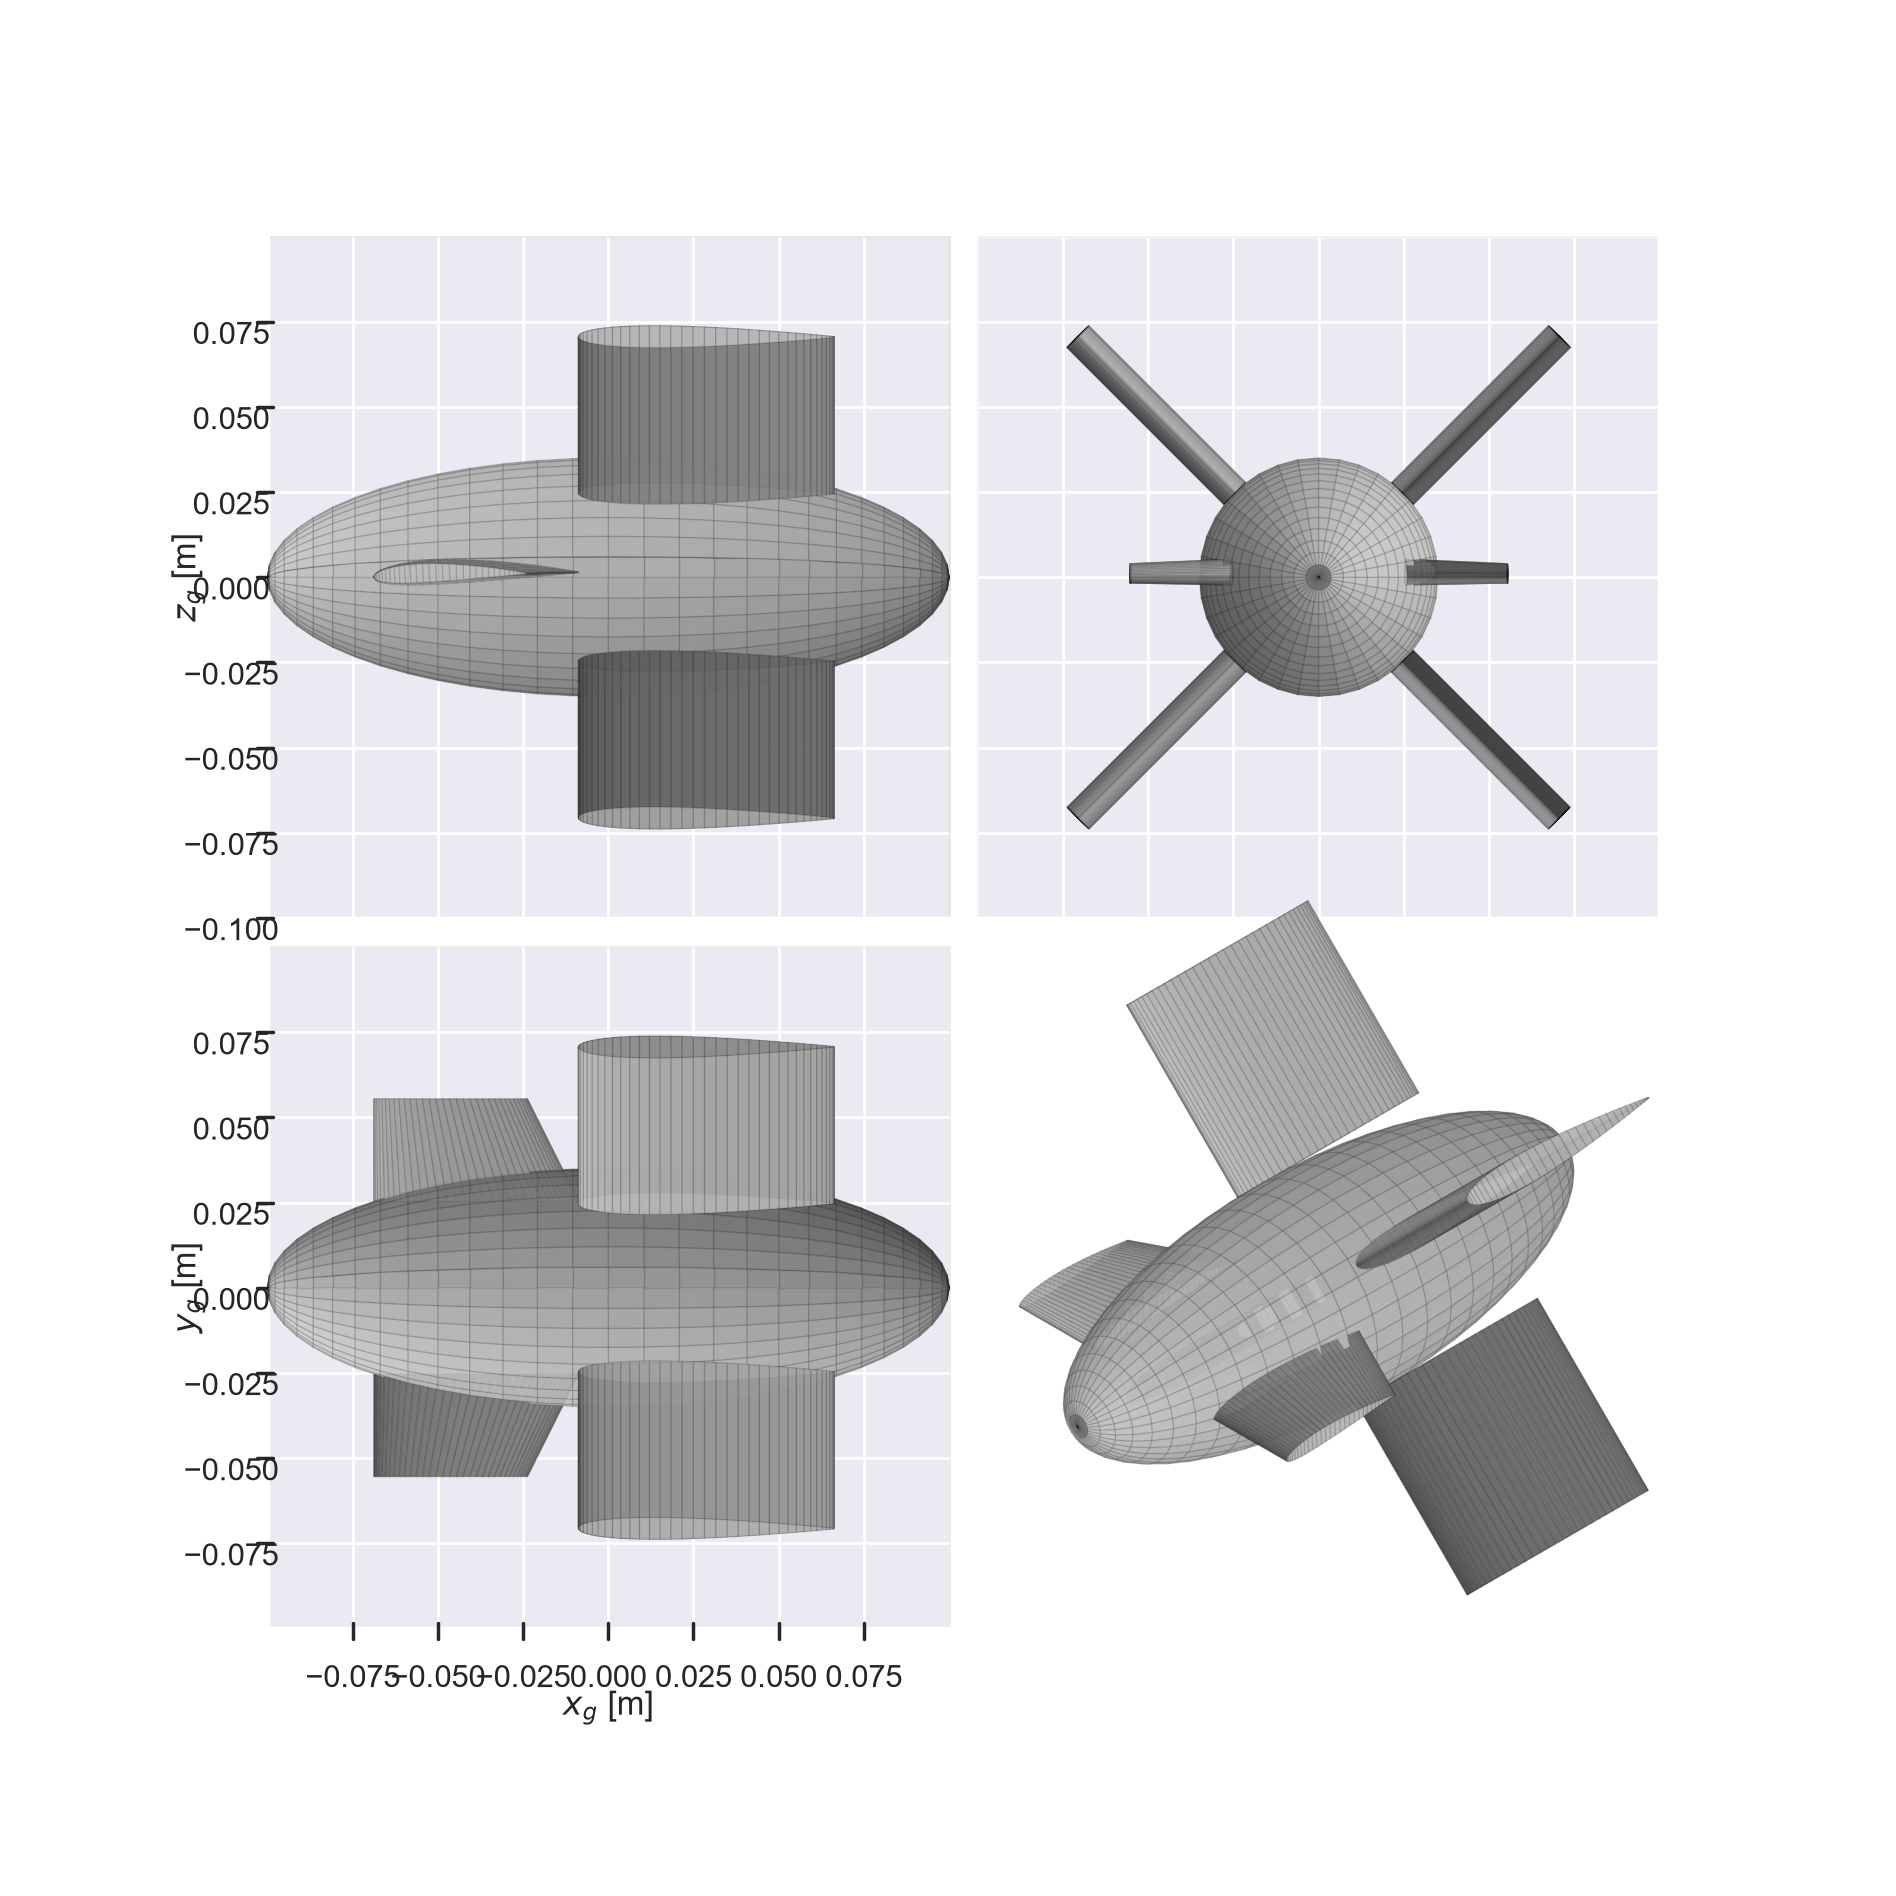
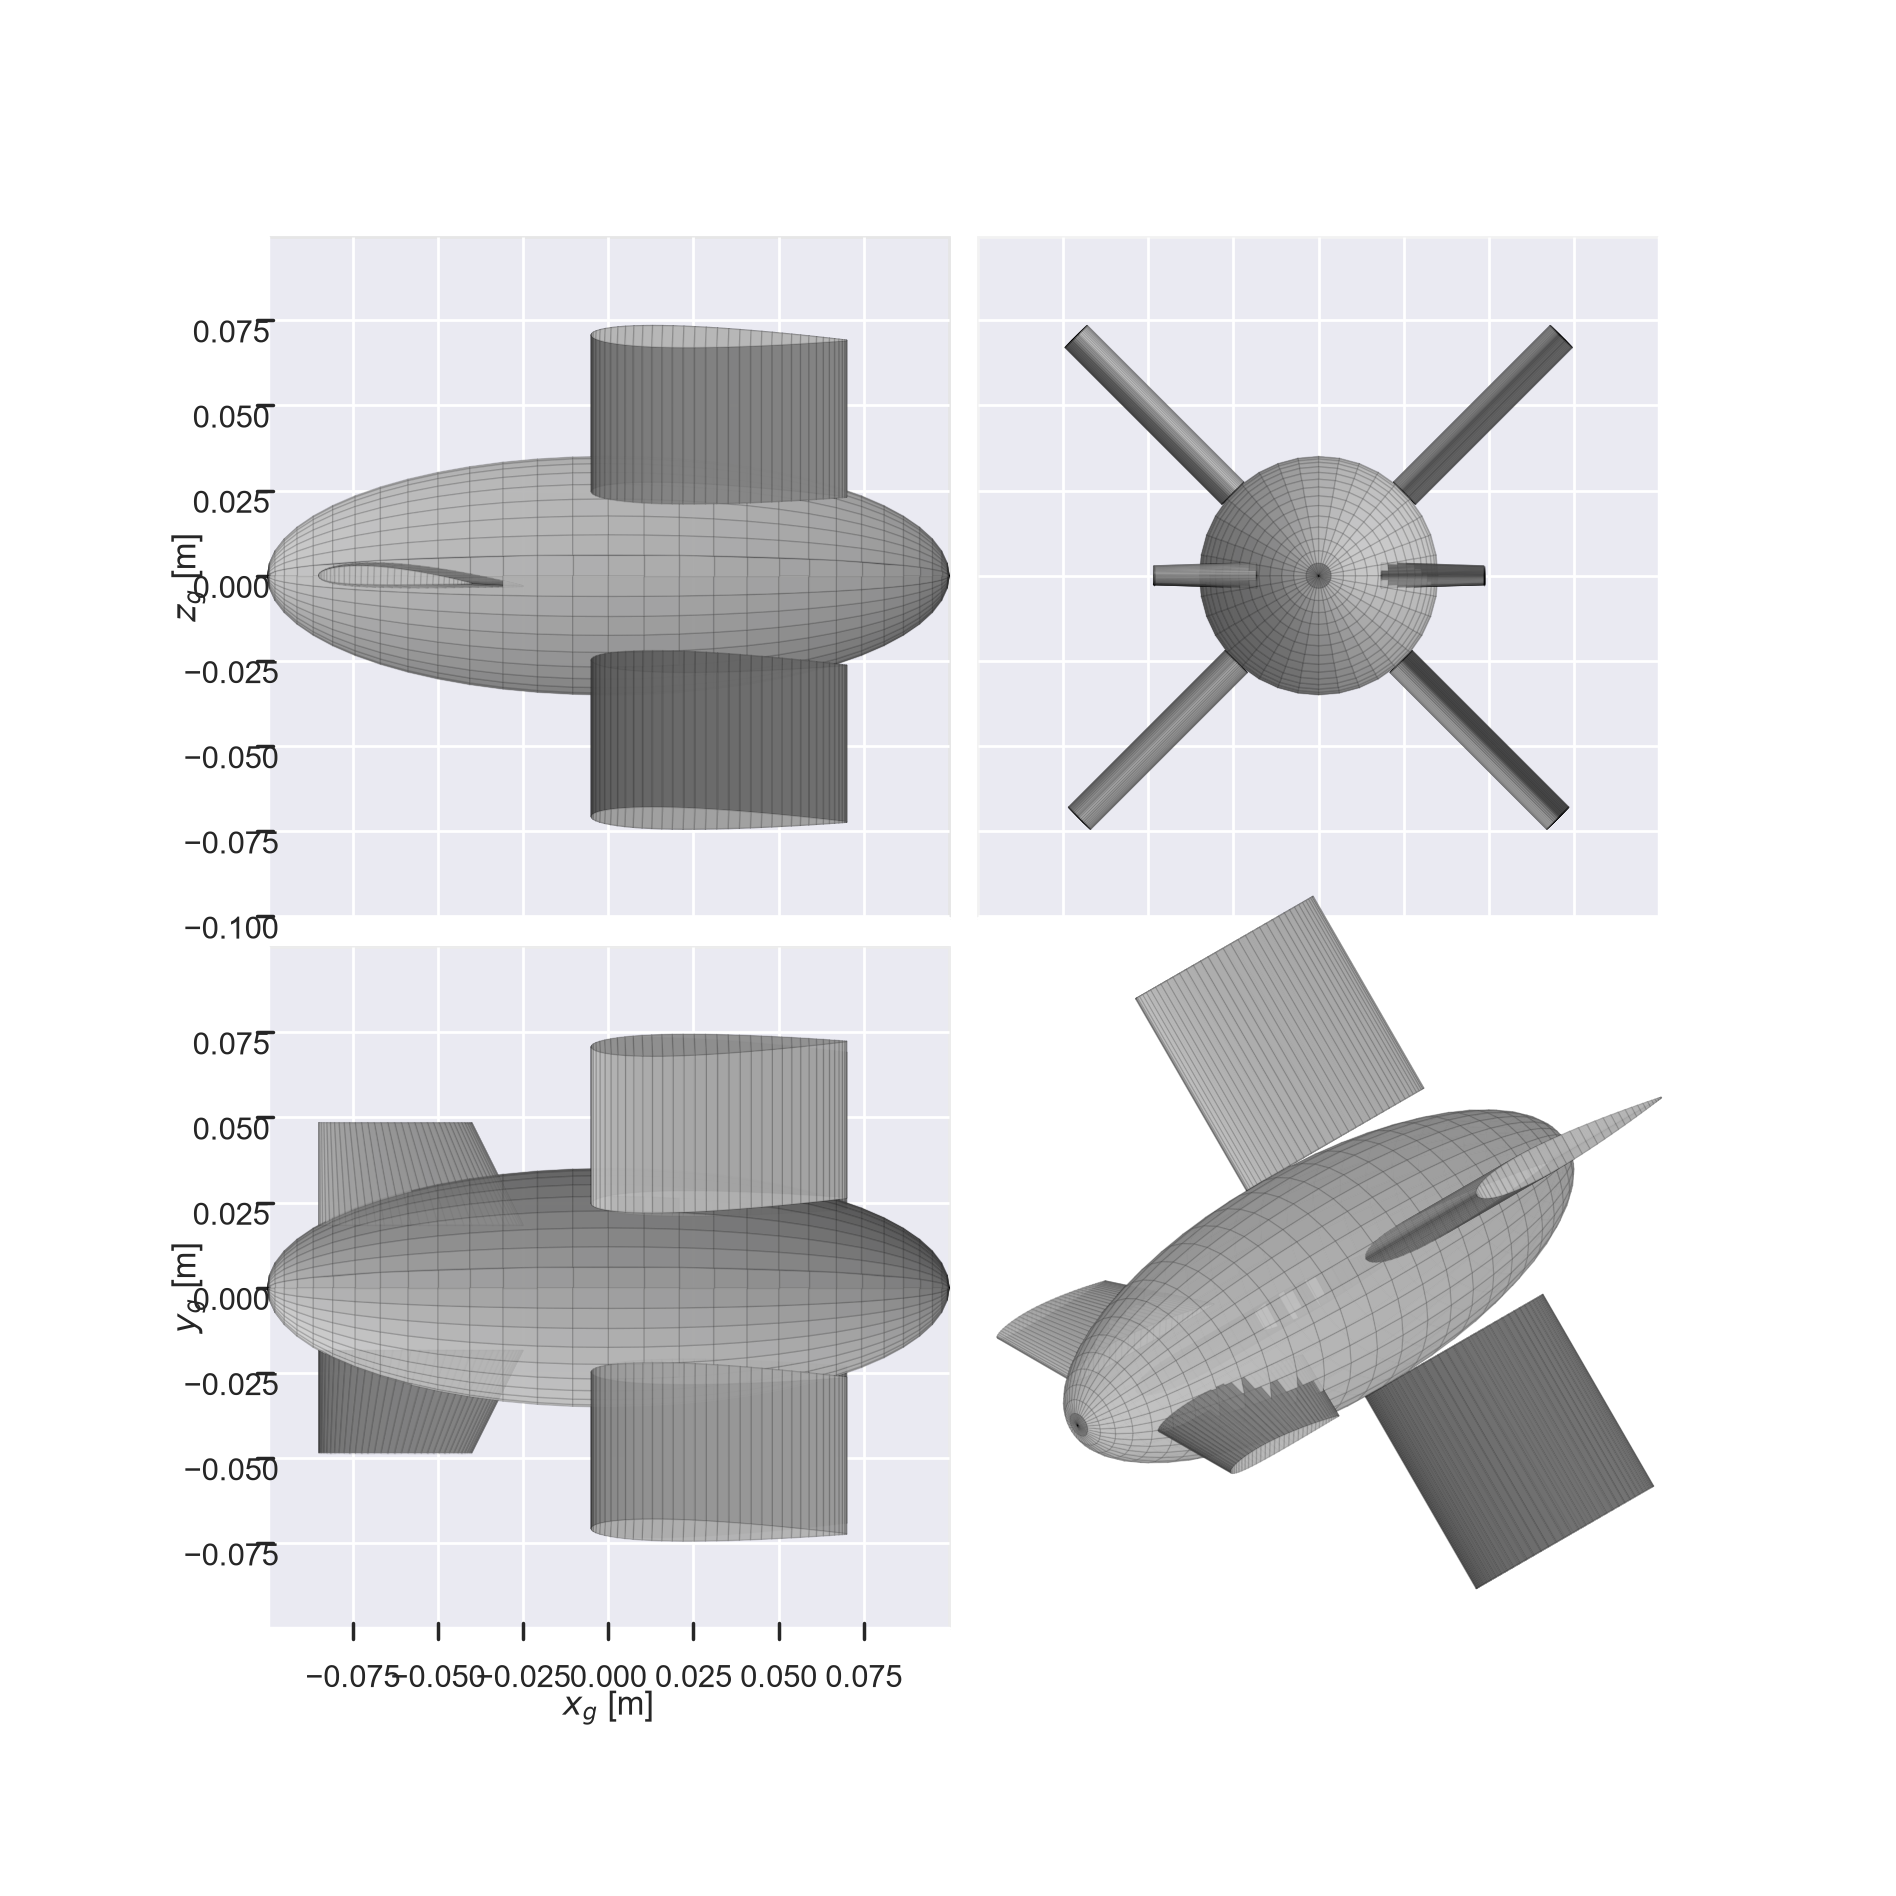
back to previous commit (after the prop code by michael was merged in)

diff --git a/version_1/src/optimization/modules/aircraft_aerodynamics.py b/version_1/src/optimization/modules/aircraft_aerodynamics.py
@@ -17,16 +17,6 @@ TAIL_FRAC = 0.30
 N_MID = 6.0     # superellipse exponent at mid-fuselage (2 = ellipse, larger = boxier)
 BLEND_POW = 2.0 # how quickly the boxiness ramps up (higher = stays elliptical longer)
 
-PROP_GEOM_FILE   = ass.PROP_GEOM_FILE
-E63_POLAR_FILE   = ass.E63_POLAR_FILE
-NACA4412_FILE    = ass.NACA4412_FILE
-PROP_TRANSITION  = ass.PROP_TRANSITION
-PROP_RPM         = ass.PROP_RPM
-PROP_N_BLADES    = ass.PROP_N_BLADES
-PROP_RHO         = para.AIR_DENSITY_SEA_LEVEL
-PROP_MU          = para.DYNAMIC_VISCOSITY_SEA_LEVEL
-N_PROPELLERS     = ass.N_PROPELLERS
-
 canard_taper_ratio = 0.75  # tip chord / root chord
 
 class AircraftAerodynamics:
@@ -131,30 +121,3 @@ class AircraftAerodynamics:
             airplane=self.build_airplane(), op_point=op_point,
         ).run_with_stability_derivatives(alpha=True, beta=False, p=False, q=False, r=False)
         return op_point, results
-    
-    def _prop_components(self):
-        """Lazily build the velocity-independent prop data (geometry + polar)."""
-        if not hasattr(self, "_prop_geom"):
-            self._prop_geom = BladeGeometry(PROP_GEOM_FILE)
-            self._prop_section = AirfoilSection(
-                inner=XFoilPolar(E63_POLAR_FILE),
-                outer=XFoilPolar(NACA4412_FILE),
-                transition_start=PROP_TRANSITION[0],
-                transition_end=PROP_TRANSITION[1],
-            )
-        return self._prop_geom, self._prop_section
-    
-    def prop_drag(self, velocity: float, prop_aoa_deg: float ,
-                  rpm: float) -> dict:
-        geom, section = self._prop_components()
-        res = PropellerAnalysis(
-            geometry=geom,
-            airfoil=section,
-            velocity=velocity,
-            rpm=rpm,
-            rho=PROP_RHO,
-            mu=PROP_MU,
-            n_blades=PROP_N_BLADES,
-            aoa_deg=prop_aoa_deg,
-        ).run()
-        return res.D_axial * N_PROPELLERS

diff --git a/version_1/src/global_parameters/global_parameters.py b/version_1/src/global_parameters/global_parameters.py
@@ -91,7 +91,7 @@ class Assumptions():
 
         # Mass properties
         self.aircraft_mass = 0.85              # [kg]
-        self.cg_offset = 0.06                  # [m] l_cg = l_p - cg_offset
+        self.cg_offset = 0.1                  # [m] l_cg = l_p - cg_offset
 
         # Fuselage dimensions
         self.fuse_dia_min = 0.07               # [m]
@@ -105,7 +105,7 @@ class Assumptions():
         self.use_canards = True                # [-] Enable canard surfaces
         self.use_diff_thrust = True            # [-] Enable differential thrust between top/bottom prop pairs
         self.steady_level = True               # [-] Equalities (True) or >= (False) for force balance
-        self.fix_l_cg = True                   # [-] Fix CG location to l_p - cg_offset
+        self.fix_l_cg = False                   # [-] Fix CG location to l_p - cg_offset
         self.fix_pylon_len = True              # [-] Fix pylon length to forced_pylon_len
         self.fix_fuse_dia = True               # [-] Fix fuselage diameter to minimum
 

diff --git a/version_1/src/optimization/modules/aircraft_design_optimizer.py b/version_1/src/optimization/modules/aircraft_design_optimizer.py
@@ -50,19 +50,10 @@ class AircraftDesignOptimizer:
 
         aero_model = AircraftAerodynamics(d, self.assumptions.use_canards)
         self.op_point, self.aero = aero_model.analyze(self.assumptions.velocity)
-        self.prop_drag_top = aero_model.prop_drag(
-            velocity = self.assumptions.velocity,
-            prop_aoa_deg = self.alpha_p,
-            rpm = PropulsionSystem.rpm_top,
-        )
-        self.prop_drag_bottom = aero_model.prop_drag(
-            velocity = self.assumptions.velocity,
-            prop_aoa_deg = self.alpha_p,
-            rpm = PropulsionSystem.rpm_bottom,
-        )
+
 
         self.lift_aero = self.aero["L"]
-        self.total_drag = self.aero["D"] + self.prop_drag_top + self.prop_drag_bottom
+        self.total_drag = self.aero["D"]
         self.drag_profile = self.aero["D_profile"]
         self.drag_induced = self.aero["D_induced"]
         self.moment_aero = self.aero["m_b"]
